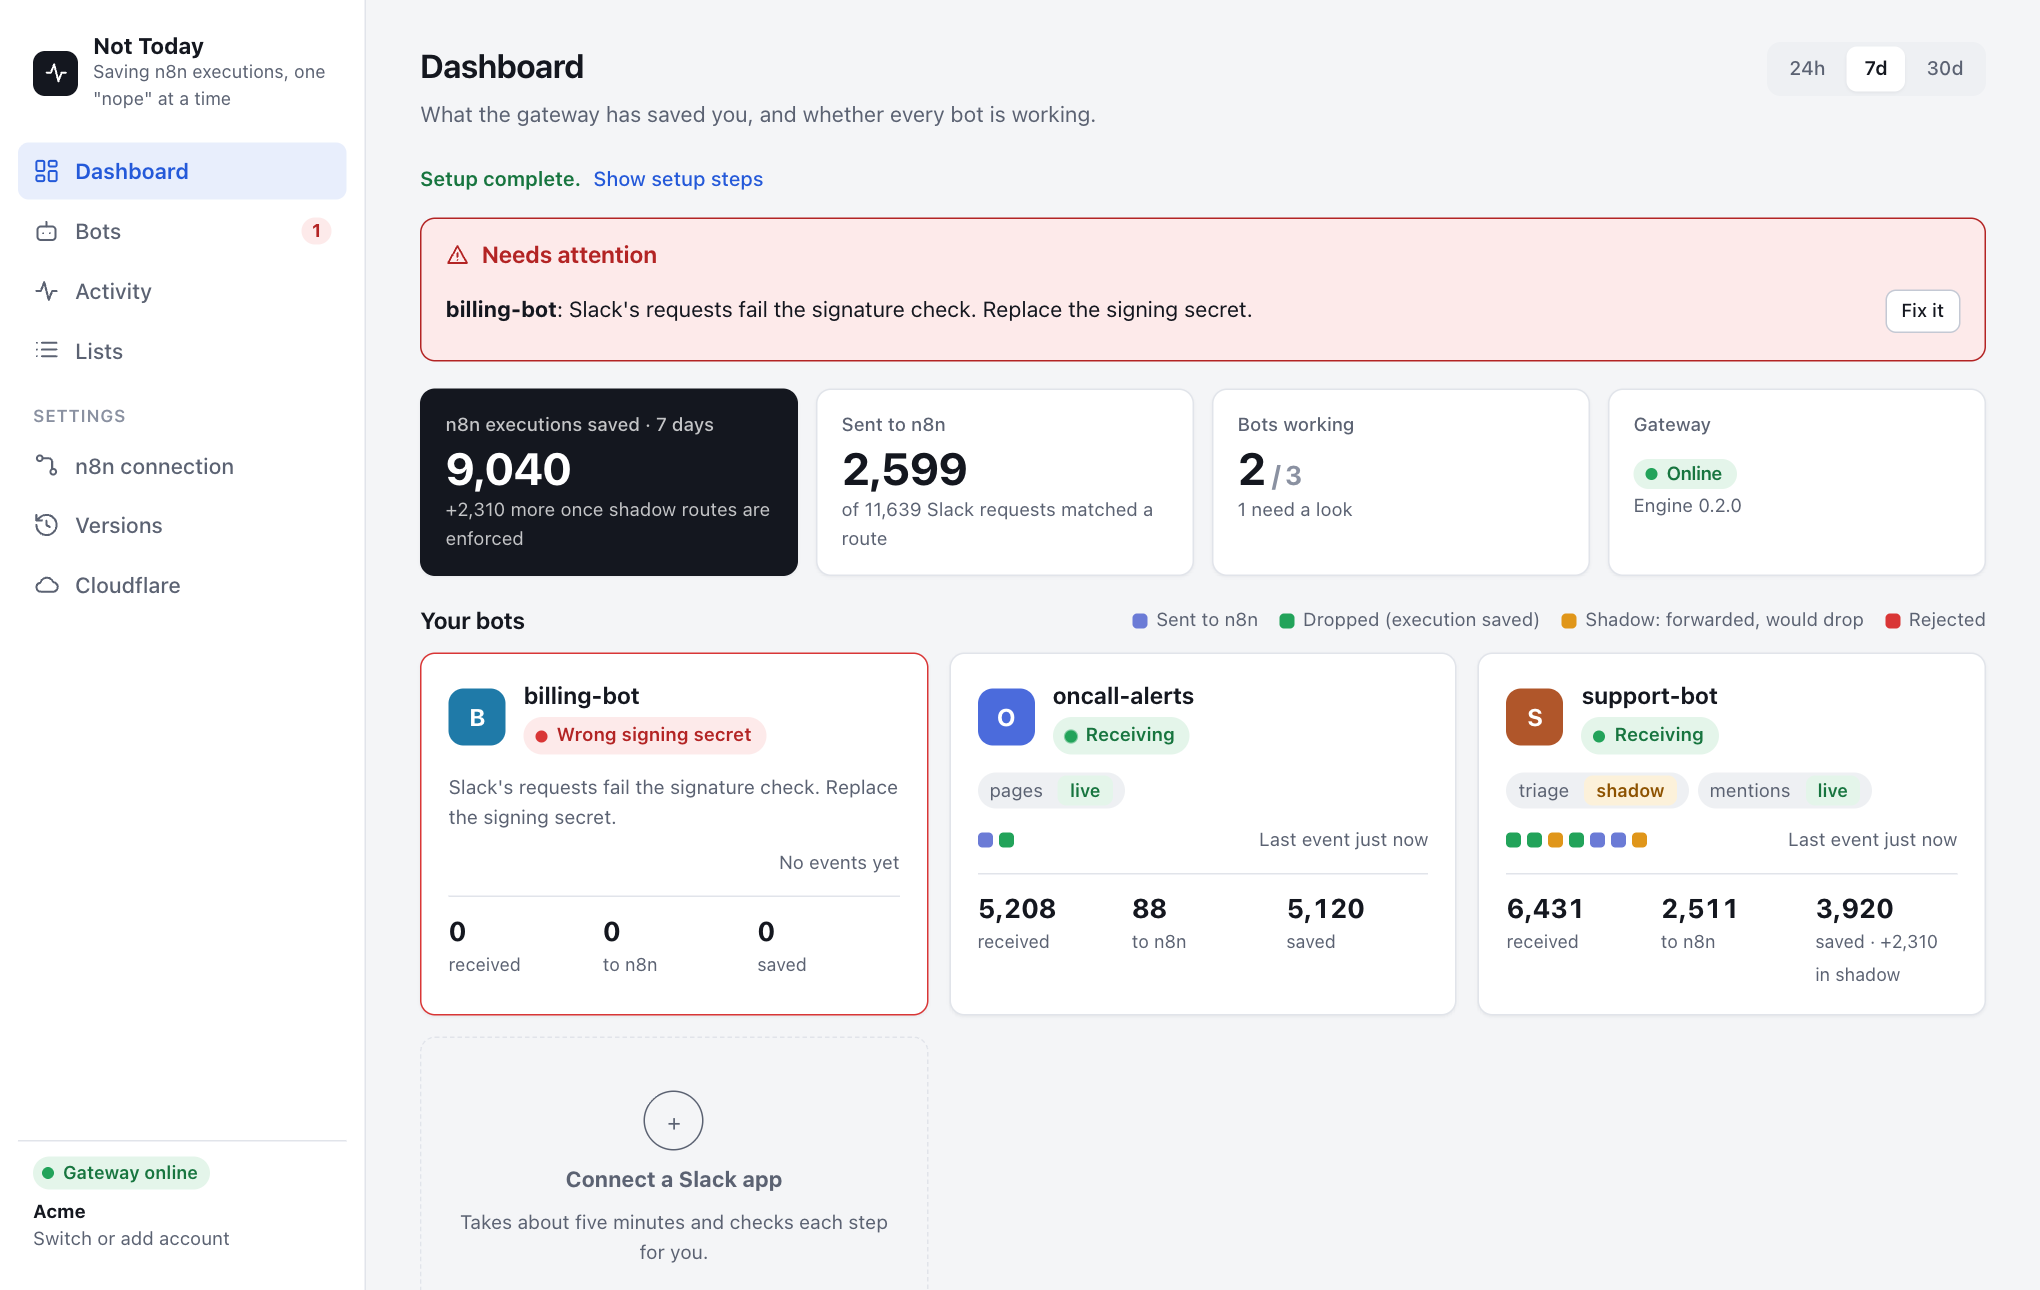
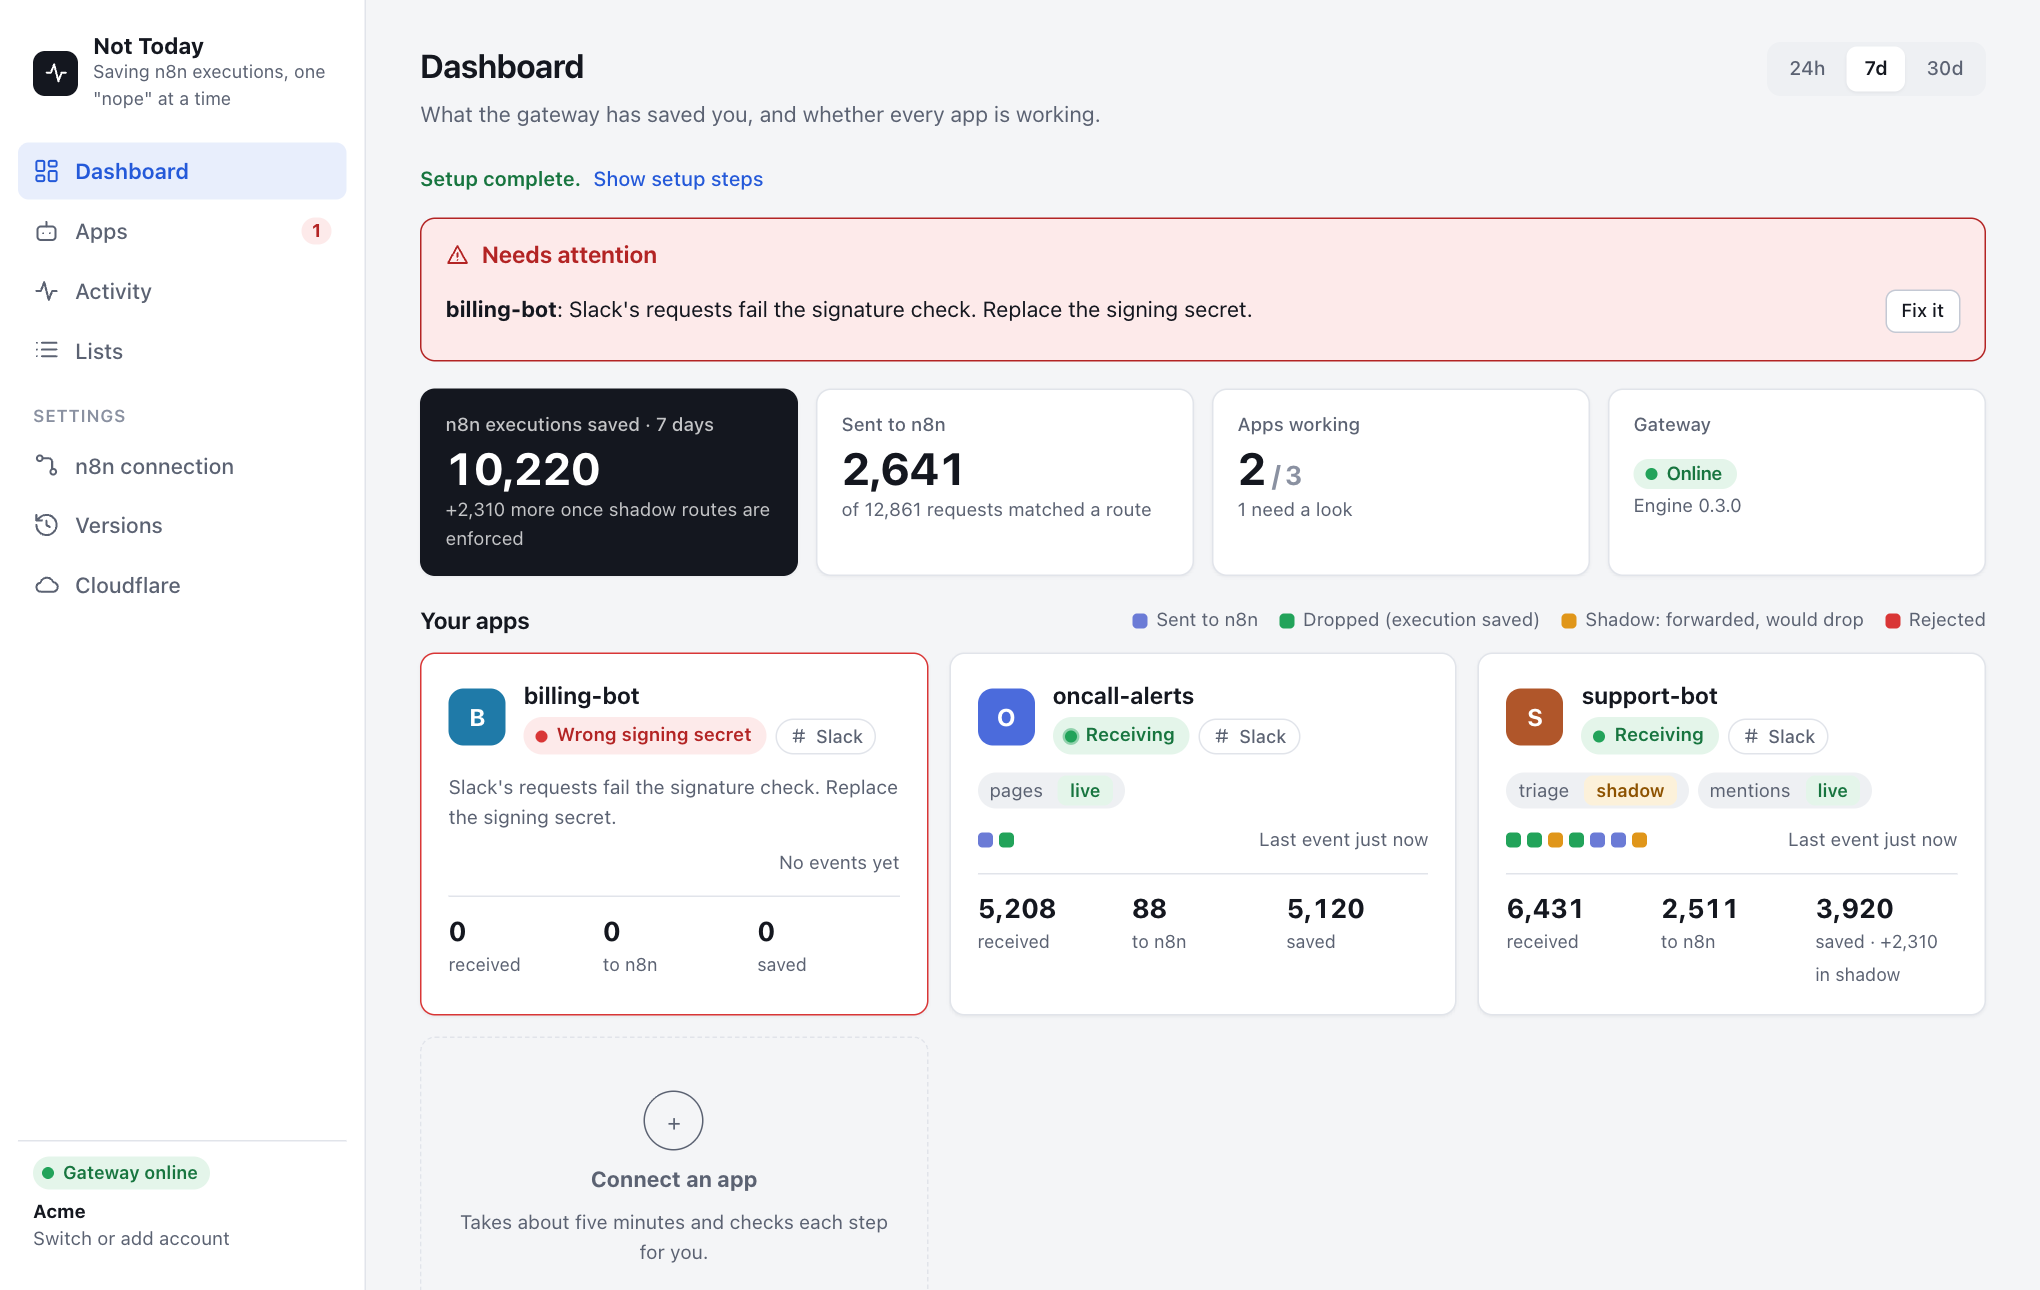
README: Slack first, others coming soon; console on a server; new screenshots

diff --git a/README.md b/README.md
@@ -2,22 +2,20 @@
 
 **Saving your n8n executions, one "nope" at a time.**
 
-A webhook gateway for n8n, for **Slack, GitHub, Telegram, or any webhook**. It says "not today" to every request no workflow needs, so it never becomes an n8n execution.
+A Slack gateway for n8n. It says "not today" to every Slack request no workflow needs, so it never becomes an n8n execution. GitHub, Telegram and any webhook are [coming soon](#coming-soon-github-telegram-and-any-webhook).
 
 n8n counts an execution every time a trigger fires. A Slack Trigger fires on every message, edit, reaction and bot post in every channel your Slack bot is in, even when the workflow only cares about a few of them and stops at its first check. A busy workspace can use most of a monthly execution quota this way.
 
-The same goes for GitHub (every push, comment and CI run), Telegram bots in busy groups, and webhooks from other services.
-
-This tool puts a small Cloudflare Worker between those apps and n8n. It checks each request's signature, answers at once, and forwards only the requests a workflow acts on. Everything it drops is an execution you don't pay for.
+This tool puts a small Cloudflare Worker between Slack and n8n. It checks Slack's signature, answers Slack at once, and forwards only the requests a workflow acts on. Everything it drops is an execution you don't pay for. It works for any Slack-triggered workflow: alerts, assistants, triage, slash commands, buttons.
 
 ```
-Slack, GitHub, Telegram, a webhook ──► https://<your-worker>.workers.dev/<slack|github|telegram|hook>/<app>
-                 ├─ checks the signature or secret, replies 200 right away
+Slack app ──► https://<your-worker>.workers.dev/slack/<app>
+                 ├─ checks the signature, replies 200 to Slack right away
                  ├─ forwards matching requests to n8n, unchanged
                  └─ drops the rest (counted, never sent)
 ```
 
-- **No n8n changes for Slack.** Requests are forwarded byte for byte with Slack's signature headers, so an existing Slack Trigger node keeps working as-is. For GitHub, Telegram and webhooks, the workflow starts from a plain Webhook node (see [Other apps](#other-apps)).
+- **No n8n changes.** Requests are forwarded byte for byte with Slack's signature headers, so an existing Slack Trigger node keeps working as-is.
 - **Free.** It runs on the Cloudflare Workers free plan (100,000 requests a day) in your own account.
 - **Local console.** `npx nottoday` opens a web UI on your machine. Your tokens stay on your machine.
 
@@ -48,7 +46,7 @@ The console opens in your browser with a setup checklist that shows what's done 
 2. **Install.** One click creates the Worker, its settings store and its `workers.dev` address.
 3. **Turn on stats** (optional, free). Cloudflare needs one Analytics Engine dataset; the console shows the exact name to use. Routing works without it.
 4. **Connect n8n** (optional). Counts executions per workflow, so you can see which ones to fix, and lets you pick trigger URLs from a list.
-5. **Connect an app.** Pick Slack, GitHub, Telegram or any webhook. For Slack it's a four-step wizard. For a new app, one button opens Slack with everything filled in from a manifest: the gateway's Request URL, the events, the permissions, and Socket Mode off (with Socket Mode on, Slack never calls the URL). You paste the Signing Secret, click Verify in Slack, and a **live check** confirms each step within seconds: URL verified, first event arrived, signatures OK. For an existing app, the wizard gives you a checklist instead; save its old Request URL first, since putting it back is your rollback. The other apps are covered [below](#other-apps).
+5. **Connect a Slack app.** A four-step wizard. For a new app, one button opens Slack with everything filled in from a manifest: the gateway's Request URL, the events, the permissions, and Socket Mode off (with Socket Mode on, Slack never calls the URL). You paste the Signing Secret, click Verify in Slack, and a **live check** confirms each step within seconds: URL verified, first event arrived, signatures OK. For an existing app, the wizard gives you a checklist instead; save its old Request URL first, since putting it back is your rollback.
 6. **Add a route.** Pick what should reach the workflow (mentions of people on a list, DMs to the bot, a channel, a keyword, a slash command…), pick the workflow, and check the route in plain words. Filters that take a list of people or channels let you choose a saved list or create one right there, typed or copied from an n8n data table, without leaving the route. **Try a message** shows whether a sample message would be forwarded or dropped, using the gateway's own logic. Routes start in **shadow** mode, which forwards everything and records what it *would* drop.
 7. **Check, then enforce.** Send a few test requests and watch the squares on the app's card (or the **Activity** page), which show each decision as it happens. When the drops are right, open the app and click **Switch to enforce**.
 
@@ -65,7 +63,9 @@ The console opens in your browser with a setup checklist that shows what's done 
 
 The route editor offers each of these as a starting point. One Slack app can feed several workflows: a message that matches two routes goes to both.
 
-## Other apps
+## Coming soon: GitHub, Telegram and any webhook
+
+The gateway already handles these, and the console has a connect flow for each, but they can't be picked in the console yet while they get tested against real repositories and bots. Here's how they will work.
 
 Each app gets its own address on the gateway, and its own secret, stored as a Worker secret.
 
@@ -127,6 +127,28 @@ Put the old n8n URL back in the Slack app's Event Subscriptions. The workflow wa
 | Counts of forwarded and dropped requests | Cloudflare Analytics Engine, in your account (kept 3 months). Message text is never recorded. Cloudflare samples bursts of requests, so counts are estimates, exact only at steady light volume |
 
 The console listens on `127.0.0.1` only. Every API call needs the random session token from the link the CLI opens. See [SECURITY.md](SECURITY.md).
+
+## Running the console on a server
+
+You don't need a server. The gateway runs on Cloudflare and keeps routing when the console is closed, so the usual way is to run `npx nottoday` on your laptop when you want to change something.
+
+If you'd rather manage it from an always-on machine, such as a VPS, run the console there and reach it through an SSH tunnel. It only listens on `127.0.0.1` and only answers to `127.0.0.1:<port>` or `localhost:<port>`, so it isn't reachable from the internet.
+
+On the server (Node.js 22.4 or later):
+
+```bash
+npx nottoday --port 4870 --no-open
+```
+
+It prints a link like `http://127.0.0.1:4870/#t=…`. On your own machine, open a tunnel with the **same port on both ends**, then open that link in your browser:
+
+```bash
+ssh -N -L 4870:127.0.0.1:4870 you@your-server
+```
+
+- Your Cloudflare and n8n tokens are saved on the server, in `~/.config/nottoday/state.json` of the user running the console. Use a machine you trust as much as your laptop.
+- To keep it running after you log out, start it in `tmux` or `screen`. The session token changes on every start, so take the new link each time.
+- Don't open the port to the internet or put it behind a public reverse proxy. The session token is the only thing protecting the API.
 
 ## Development
 
